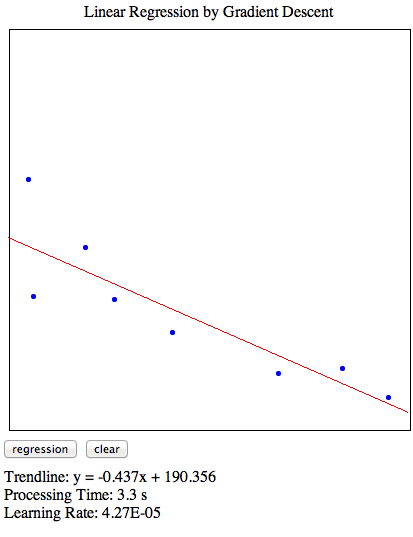
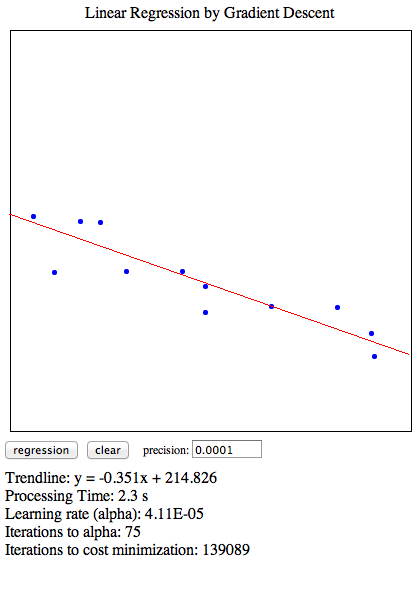
add interface elements

diff --git a/static/linereg.js b/static/linereg.js
@@ -27,28 +27,39 @@ function drawDot(x,y,graphHeight){
 $(document).on('click','#send_data',function(){
 	//send data for processing
 	$('#msgbox').html('');
-	$.ajax({
-		method:	'post',
-		url:	'linereg.py',
-		data:	{'package':JSON.stringify(points)},
-		success:function(result){
-			//receive results
-			if (result.substring(0,2) == 'no'){
-				$('#msgbox').html(result);
+	$('#working').css({'display':'inline-block'});
+	var prec = $('#prec_in').val();
+	if (! isNaN(prec)){
+		$.ajax({
+			method:	'post',
+			url:	'linereg.py',
+			data:	{'package':JSON.stringify([points,prec])},
+			success:function(result){
+				//receive results
+				$('#working').css({'display':'none'});
+				if (result.substring(0,2) == 'in'){
+					$('#msgbox').html(result);
+				}
+				else{						
+					result = JSON.parse(result);
+					var b = parseInt(1000*result[0])/1000.;
+					var m = parseInt(1000*result[1])/1000;			
+					$('#msgbox').html(	
+						'Trendline: y = '+String(m)+'x + '+String(b)+'<br>'+
+						'Processing Time: '+result[2]+' s <br>'+
+						'Learning rate (alpha): '+result[3]+'<br>'+
+						'Iterations to alpha: '+result[4]+'<br>'+
+						'Iterations to cost minimization: '+result[5]+'<br>'
+					);			
+					gen_trend(m,b);
+				}
 			}
-			else{			
-				result = JSON.parse(result);
-				var b = parseInt(1000*result[0])/1000.;
-				var m = parseInt(1000*result[1])/1000;
-				$('#msgbox').html(
-					'Trendline: y = '+String(m)+'x + '+String(b)+'<br>'+
-					'Processing Time: '+result[2]+' s <br>'+
-					'Learning Rate: '+result[3]
-				);	
-				gen_trend(m,b);
-			}
-		}
-	});
+		});
+	}
+	else{
+		$('#working').css({'display':'none'});
+		$('#msgbox').html('precision value not a number');
+	}
 });
 
 function draw_trend(x,y){
@@ -58,8 +69,7 @@ function draw_trend(x,y){
 	dot.className = 'trendline';
 	dot.style.marginLeft = x-2+'px';
 	dot.style.marginTop = graphHeight - y -2+ 'px';
-	$('#graph').append(dot);
-	
+	$('#graph').append(dot);	
 }
 
 function gen_trend(m,b){

diff --git a/linereg.html b/linereg.html
@@ -1,7 +1,7 @@
 <html>
 <head>
 	<meta content-type='http-equiv' content='text/html; charset=utf-8'></meta>	
-	<title>linereg - linear regression tool for arbitrary data sets</title>
+	<title>linereg - Linear Regression by Gradient Descent</title>
 	<link rel='stylesheet' type='text/css' href='static/linereg_css'></link>
 	<script type='text/javascript' src='https://code.jquery.com/jquery-2.1.3.js'></script>
 	<script type='text/javascript' src='static/linereg_js'></script>
@@ -13,7 +13,9 @@
 	</div>
 	<div id='container2'>
 		<button class='btn' id='send_data'>regression</button>
-		<button class='btn' id='clear'>clear</button><br>
+		<button class='btn' id='clear'>clear</button>
+		<span id='prec_out'>precision: <textarea id='prec_in'>0.0001</textarea></span>
+		<span id='working'>Working...</span><br>
 		<div id='msgbox'></div>
 	</div>
 </body>

diff --git a/static/linereg.css b/static/linereg.css
@@ -41,9 +41,6 @@
 	border-width:1px;
 }
 .btn{
-/*
-	margin-top:440px;
-	*/
 	margin-left:5px;
 }
 #msgbox{
@@ -51,3 +48,20 @@
 	padding:5px;
 	width:400px;
 }
+#working{
+	margin-left:10px;
+	font-size:13px;
+	color:gray;
+	display:none;
+}
+#prec_out{
+	font-size:12px;
+	margin-left:10px;
+}
+#prec_in{
+	resize:none;
+	height:18px;
+	width:70px;
+	vertical-align:top;
+	overflow:hidden;
+}	

diff --git a/linereg.py b/linereg.py
@@ -7,6 +7,7 @@ slope and intercept parameters are sent back to linereg.html and
 overlaid on the original data. '''
 import cgi,json,sys,copy,time
 from decimal import Decimal
+from operator import itemgetter
 print
 
 def main():
@@ -14,15 +15,27 @@ def main():
 	global x
 	global y
 	
-	points = cgi.FieldStorage()['package'].value
-	points = json.loads(points)
-	if not points:
-		print 'no data'
+	data = cgi.FieldStorage()['package'].value
+	data = json.loads(data)
+	points = data[0]
+	prec = float(data[1])
+	if not points or len(points) == 1:
+		print 'insufficient data'
 		sys.exit()
 	
+	#first guess of th0/th1
+	x_sort = sorted(points)
+	y_sort = sorted(points,key=itemgetter(1))
+	if abs(x_sort[-1][0]-x_sort[0][0]) > abs(y_sort[-1][1]-y_sort[0][1]):
+		th1=(x_sort[-1][1]-x_sort[0][1])/(x_sort[-1][0]-x_sort[0][0])
+		th0=x_sort[0][1] - th1*x_sort[0][0]
+	else:
+		th1=(y_sort[-1][1]-y_sort[0][1])/(y_sort[-1][0]-y_sort[0][0])
+		th0=y_sort[0][1] - th1*y_sort[0][0]
+	
 	x=[float(x_[0]) for x_ in points]
-	y=[float(x_[1]) for x_ in points]
-
+	y=[float(y_[1]) for y_ in points]
+	
 	def th0_sum(th0,th1):
 		return sum([th0+th1*x[i]-y[i] for i in range(len(x))])
 		
@@ -32,12 +45,12 @@ def main():
 	def cost_sum(th0,th1):
 		return sum([ (th0+th1*x[i]-y[i])**2 for i in range(len(x))])
 	
-	def compute(alpha):
+	def compute(alpha,th0,th1,prec):
 		#initialize some parameters
-		th0=0.; th1=0.; th0_tmp=0.
+		#th0=0.; th1=0.; 
+		th0_tmp=0.
 		m=len(x)
 		cost_new=0.; cost_old=0.
-		precision = .0001
 		th0s=[];th1s=[];J=[];diffs=[]
 		
 		while 1:	
@@ -57,20 +70,27 @@ def main():
 			J.append(cost_new)
 			diffs.append(diff)
 		
-			if abs(diff) < precision:	#cost minimized
-				return th0,th1
+			if abs(diff) < prec:	#cost minimized
+				return th0,th1,th0s,th1s
 
 	alpha=.1	#initial alpha
+	alpha_iter = 1
 	while 1:	#auto-generate alpha value by trial
-		result=compute(alpha)	
+		result=compute(alpha,th0,th1,prec)	
 		if result == 'high':
-			alpha=alpha*99./100	#new alpha
+			alpha=alpha*9./10	#new alpha
+			alpha_iter+=1
 		else:
 			th0=result[0]
 			th1=result[1]
+			th0s=result[2]
+			th1s=result[3]
 			break
+	iterations = len(th0s)
+	th0s = [th0s[x] for x in range(0,len(th0s),20)]
+	th1s = [th1s[x] for x in range(0,len(th1s),20)]
 	elapsed = int(10*(time.time()-start))/10.	
-	package = [th0,th1,elapsed,'%.2E' % Decimal(str(alpha))]
+	package = [th0,th1,elapsed,'%.2E' % Decimal(str(alpha)),alpha_iter,iterations]
 	print json.dumps(package)
 	
 if __name__ == '__main__':
